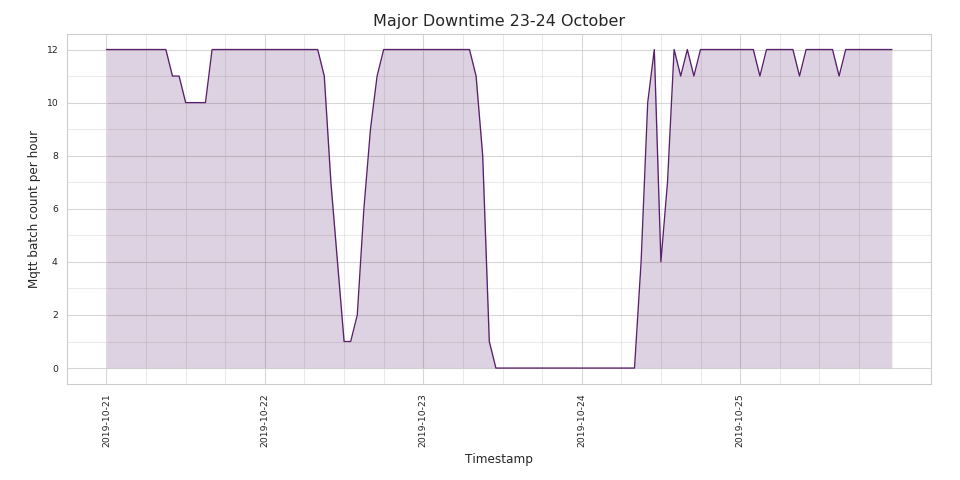
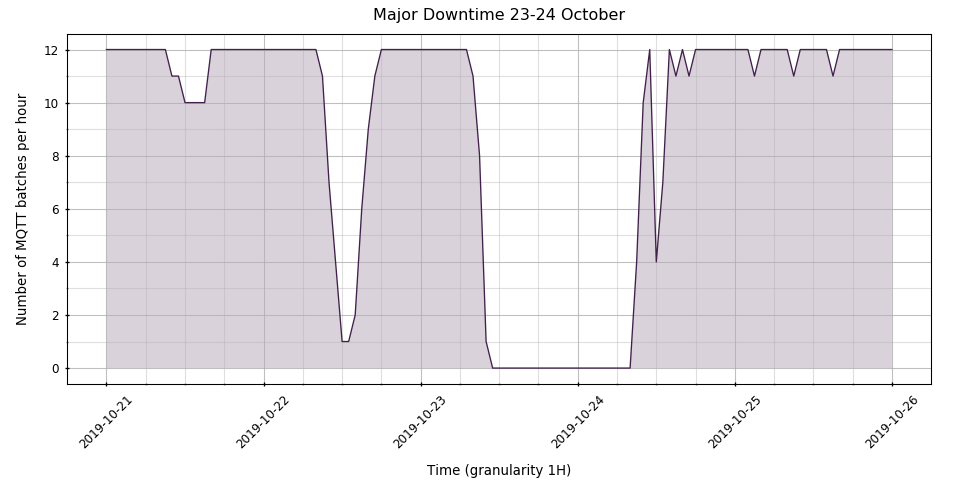
panda plotter parameter-ized

diff --git a/lib/panda_plotter.py b/lib/panda_plotter.py
@@ -3,11 +3,12 @@ import os
 import re
 
 import matplotlib.pyplot as plt
+import matplotlib.ticker as ticker
 import numpy as np
-import seaborn as sns
-from deepmerge import conservative_merger, always_merger
-from pandas.plotting import register_matplotlib_converters
 import pandas as pd
+import seaborn as sns
+from deepmerge import always_merger
+from pandas.plotting import register_matplotlib_converters
 from seaborn import xkcd_rgb
 
 
@@ -35,11 +36,38 @@ class PandaPlotter:
                 "width": 10,
                 "height": 5,
                 "dpi": 96,
+                "top": 0.93,
+                "bottom": 0.2,
+                "left": 0.07,
+                "right": 0.97,
+                "hspace": 0.2,
+                "wspace": 0.2,
                 "default_style": "whitegrid",
                 "palette_color": "baby shit green",
+                "palette_length": 7,
                 "line_width": 1,
                 "line_style": "solid",
-                "fill_alpha": 0.2
+                "fill_alpha": 0.2,
+                "title_font_size": 12,
+                "axis_label_font_size": 10,
+                "axis_value_font_size": 9,
+                "x_axis_value_rotation": 0,
+                "y_axis_value_rotation": 0,
+                "label_pad": 10,
+                "x_axis_value_format": "",
+                "y_axis_value_format": "%.1f",
+                "major_grid_alpha": 0.8,
+                "minor_grid_alpha": 0.4,
+                "major_tick_direction": "inout",
+                "major_tick_length": 3,
+                "major_tick_width": 1,
+                "major_tick_pad": 5,
+                "major_tick_color": "black",
+                "minor_tick_direction": "inout",
+                "minor_tick_length": 1,
+                "minor_tick_width": 1,
+                "minor_tick_pad": 1,
+                "minor_tick_color": "gray",
             }
         }
         return cfg
@@ -66,29 +94,32 @@ class PandaPlotter:
         pconf = always_merger.merge(self._get_default_plot_config(), cfg)
         for i in range(0, len(pconf["plots"])):
             pconf["plots"][i] = always_merger.merge(self._get_default_subplot_config(), pconf["plots"][i])
-        print(pconf)
+        # print(pconf)
 
         # Styles and Colors
+        pstyle = pconf["style"]
         # Use colors from : (from .colors import xkcd_rgb, crayons)
-        # sns.set_style(pconf["style"]["default_style"])
-        palette_color = xkcd_rgb[pconf["style"]["palette_color"]]
-        palette = sns.dark_palette(palette_color, n_colors=7)
+        palette_color = xkcd_rgb[pstyle["palette_color"]]
+        palette = sns.dark_palette(palette_color, n_colors=pstyle["palette_length"])
 
-        fig = plt.figure(num=None, figsize=(pconf["style"]["width"], pconf["style"]["height"]),
-                         dpi=pconf["style"]["dpi"], facecolor='w', edgecolor='k')
+        fig = plt.figure(num=None, figsize=(pstyle["width"], pstyle["height"]),
+                         dpi=pstyle["dpi"], facecolor='w', edgecolor='k')
 
         # For now only single subplots are supported
         ax = fig.add_subplot(1, 1, 1)
+
+        # Title
+        ax.set_title(pconf["title"], fontsize=pstyle["title_font_size"], pad=pstyle["label_pad"])
 
         # Data for subplot
         subpconf = pconf["plots"][0]
         df = subpconf["data"]
 
-        # X
+        # X dimension
         x_column = subpconf["x_column"]
         x = df[x_column]
 
-        # Y (Allow for multiple columns passed as a list)
+        # Y dimensions - allow for multiple columns passed as a list
         if isinstance(subpconf["y_column"], list):
             y_columns = subpconf["y_column"]
         else:
@@ -98,9 +129,9 @@ class PandaPlotter:
         for i in range(0, len(y_columns)):
             y_column = y_columns[i]
             y = df[y_column]
-            color = palette[i+2]
-            ax.plot(x, y, color=color, lw=pconf["style"]["line_width"], linestyle=pconf["style"]["line_style"])
-            ax.fill_between(x, 0, y, alpha=pconf["style"]["fill_alpha"], facecolor=color)
+            color = palette[i + 2]
+            ax.plot(x, y, color=color, lw=pstyle["line_width"], linestyle=pstyle["line_style"])
+            ax.fill_between(x, 0, y, alpha=pstyle["fill_alpha"], facecolor=color)
 
         # X ticks
         x_major_ticks_freq = subpconf["x_major_ticks_freq"]
@@ -110,52 +141,47 @@ class PandaPlotter:
         ax.set_xticks(x_major_ticks)
         ax.set_xticks(x_minor_ticks, minor=True)
 
+        # X Label
+        ax.set_xlabel(subpconf["x_label"], fontsize=pstyle["axis_label_font_size"], labelpad=pstyle["label_pad"])
+        ax.tick_params(axis="x", labelrotation=pstyle["x_axis_value_rotation"],
+                       labelsize=pstyle["axis_value_font_size"])
+
         # Y ticks
         y_major_ticks_freq = subpconf["y_major_ticks_freq"]
         y_minor_ticks_freq = subpconf["y_minor_ticks_freq"]
-
         y_column = y_columns[0]
         y = df[y_column]
         y = np.array(range(0, int(max(y)) + 1))
-
         y_major_ticks = y[0::y_major_ticks_freq]
         y_minor_ticks = y[0::y_minor_ticks_freq]
         ax.set_yticks(y_major_ticks)
         ax.set_yticks(y_minor_ticks, minor=True)
 
+        # Y Label
+        ax.set_ylabel(subpconf["y_label"], fontsize=pstyle["axis_label_font_size"], labelpad=pstyle["label_pad"])
+        ax.tick_params(axis="y", labelrotation=pstyle["y_axis_value_rotation"],
+                       labelsize=pstyle["axis_value_font_size"])
+
         # Grid & Ticks
-        ax.grid(which='major', alpha=0.8)
-        ax.grid(which='minor', alpha=0.4)
-        ax.tick_params(which='major', direction='inout', pad=5, length=3, width=1, color="k")
-        ax.tick_params(which='minor', length=0, width=0)
+        ax.grid(which='major', alpha=pstyle["major_grid_alpha"])
+        ax.grid(which='minor', alpha=pstyle["minor_grid_alpha"])
+        ax.tick_params(which='major', direction=pstyle["major_tick_direction"], length=pstyle["major_tick_length"],
+                       width=pstyle["major_tick_width"], pad=pstyle["major_tick_pad"], color=pstyle["major_tick_color"])
+        ax.tick_params(which='minor', direction=pstyle["minor_tick_direction"], length=pstyle["minor_tick_length"],
+                       width=pstyle["minor_tick_width"], pad=pstyle["minor_tick_pad"], color=pstyle["minor_tick_color"])
 
         # Plot Spacing
-        plt.subplots_adjust(top=0.93, bottom=0.2, left=0.07, right=0.97, hspace=0.2, wspace=0.2)
+        plt.subplots_adjust(top=pstyle["top"], bottom=pstyle["bottom"], left=pstyle["left"], right=pstyle["right"],
+                            hspace=pstyle["hspace"], wspace=pstyle["wspace"])
 
+        if pstyle["x_axis_value_format"] != "":
+            ax.xaxis.set_major_formatter(ticker.FormatStrFormatter(pstyle["x_axis_value_format"]))
 
-
-        if show:
-            plt.show()
-
-    def plot_(self, cfg, df, show=True, save=False):
-
-
-
-
-
-
-        ax.set_title(plotconfig["plot_title"], fontsize=12)
-        ax.set_xlabel(plotconfig["x_label"], fontsize=9)
-        ax.set_ylabel(plotconfig["y_label"], fontsize=9)
-        ax.tick_params(axis="x", labelrotation=90, labelsize=7)
-        ax.tick_params(axis="y", labelrotation=0, labelsize=7)
-
-        # Need option for these
-        # ax.xaxis.set_major_formatter(StrMethodFormatter('{x:,.0f}'))
-        # ax.yaxis.set_major_formatter(StrMethodFormatter('{x:,.0f}'))
+        if pstyle["y_axis_value_format"] != "":
+            ax.yaxis.set_major_formatter(ticker.FormatStrFormatter(pstyle["y_axis_value_format"]))
 
         if save:
-            self._save(plotconfig["plot_title"])
+            self._save(pconf["title"])
 
         if show:
             plt.show()

diff --git a/p1.py b/p1.py
@@ -12,28 +12,26 @@ from lib.panda_plotter import PandaPlotter
 cdl = CachedDataLoader()
 pp = PandaPlotter()
 
-sql = 'SELECT v.ts AS TS, ' \
-      'v.mqtt_count AS BATCH_COUNT, ' \
-      'v.per_minute_count AS PER_MINUTE_COUNT ' \
-      'FROM v__wcb__h__record_counts AS v'
-df = cdl.get_dataframe(sql, reindex=True)
+sql = 'SELECT * FROM v__wcb__h__record_counts'
+df = cdl.get_dataframe(sql)
+df = cdl.reindex_by_timestamp(df, "ts", "1H")
 
 # Filter a time period by mask
-mask = (df['TS'] >= '2019-10-21 00:00:00') & (df['TS'] < '2019-10-26 00:00:00')
+mask = (df['ts'] >= '2019-10-21 00:00:00') & (df['ts'] <= '2019-10-26 00:00:00')
 mdf_1 = df.loc[mask]
 # print(mdf_1)
 
 
 plotconfig = {
-    "title": "Jack-1",
+    "title": "Major Downtime 23-24 October",
     "plots": [
         {
             "data": mdf_1,
             "title": "Major Downtime 23-24 October",
-            "x_column": "TS",
-            "y_column": ["BATCH_COUNT"],
-            "x_label": "Timestamp",
-            "y_label": "Mqtt batch count per hour",
+            "x_column": "ts",
+            "y_column": ["mqtt_count"],
+            "x_label": "Time (granularity 1H)",
+            "y_label": "Number of MQTT batches per hour",
             "x_major_ticks_freq": 24,
             "x_minor_ticks_freq": 6,
             "y_major_ticks_freq": 2,
@@ -41,7 +39,9 @@ plotconfig = {
         }
     ],
     "style": {
-        "palette_color": "purple"
+        "palette_color": "purple",
+        "x_axis_value_rotation": 45,
+        "y_axis_value_format": "",
     }
 }
 pp.plot(plotconfig, save=True)
